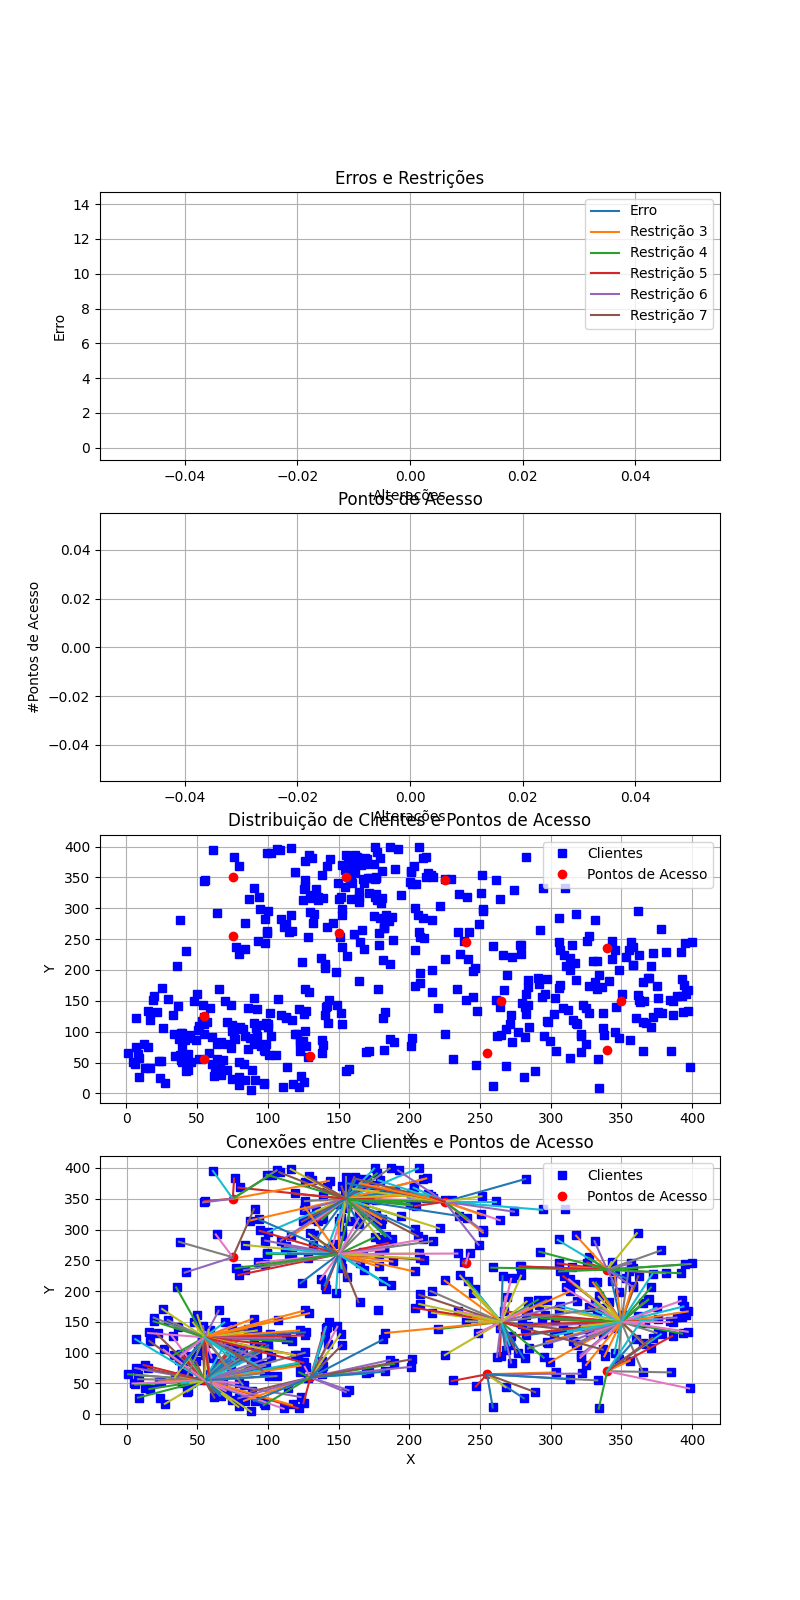
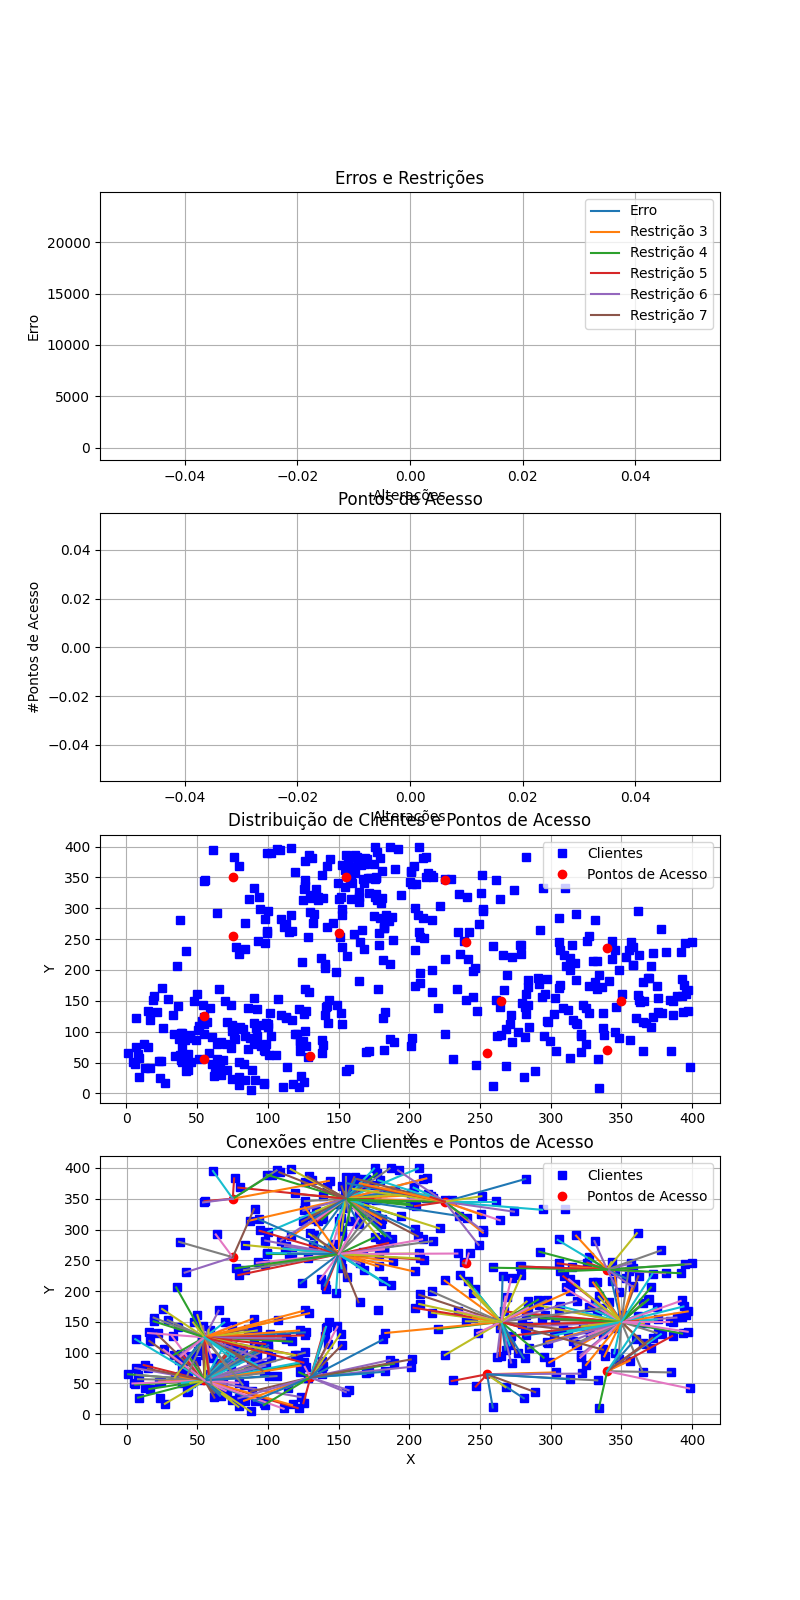
Rodando liso, só melhorar as estruturas de vizinhança que não estao boas

Changed region(s): [[0.0312, 0.125, 0.125, 0.2188]]

diff --git a/entregas/2 entrega/mop_solution/estrutura_vizinhanca.py b/entregas/2 entrega/mop_solution/estrutura_vizinhanca.py
@@ -41,7 +41,6 @@ def k1(dados):
 
     dados = realoca_clientes(dados, clientes_desalocados)
 
-    print(f"{r3(dados)} | {r4(dados)} |{r5(dados)} |{r6(dados)} |{r7(dados, 1)} |{r8(dados)} ")
     return dados
 
 
@@ -60,7 +59,7 @@ def k2(dados):
     """
 
     # Define o tamanho da região
-    tamanho_regiao = 50
+    tamanho_regiao = 100
 
     # Encontra as coordenadas da região aleatória
     x_inicio = np.random.randint(0, dados['sizex'][1] - tamanho_regiao + 1)
@@ -82,40 +81,20 @@ def k2(dados):
         clientes_ativos_por_PA = clientes_por_PA_na_regiao.sum(axis=0)
         PA_menos_clientes = np.argmin(clientes_ativos_por_PA)
 
+        # Obtém os clientes do PA desativado
+        clientes_desalocados = np.where(dados['cliente_por_PA'][:, PA_menos_clientes] == 1)[0]
+
         # Desativa o PA com menos clientes
         PAs_ativos = np.delete(PAs_ativos, PA_menos_clientes, axis=0)
         dados['possiveis_coord_PA'] = PAs_ativos
         dados['cliente_por_PA'] = np.delete(dados['cliente_por_PA'], PA_menos_clientes, axis=1)
+
         #Adiciona coluna de zeros no fim do array
         coluna_zeros = np.zeros((dados['cliente_por_PA'].shape[0], 1))
         dados['cliente_por_PA'] = np.hstack((dados['cliente_por_PA'], coluna_zeros))
 
-        # Obtém os clientes do PA desativado
-        clientes_desalocados = np.where(dados['cliente_por_PA'][:, PA_menos_clientes] == 1)[0]
-
-        # Remove os clientes do PA
-        dados['cliente_por_PA'][:, PA_menos_clientes] = 0
-
         dados = realoca_clientes(dados, clientes_desalocados)
-        # Tenta realocar os clientes desalocados
-        # for cliente in clientes_desalocados:
-        #     # Remove a conexão do cliente com o PA desativado
-        #     dados['cliente_por_PA'][cliente, PA_menos_clientes] = 0
-        #     # Calcula distâncias apenas para PAs ativos
-        #     distancias = np.linalg.norm(dados['coord_clientes'][cliente] - dados['possiveis_coord_PA'], axis=1)
 
-        #     # Encontra PAs ativos dentro do limite de sinal
-        #     PAs_ativos_alcance = PAs_ativos[np.where(distancias <= dados['limite_sinal_PA'])[0]]
-
-        #     # Tenta conectar ao PA com capacidade disponível
-        #     for i in range(len(PAs_ativos_alcance)):
-        #         PA = PAs_ativos_alcance[i]
-        #         consumo_atual_pa = np.sum(dados['cliente_por_PA'][:, i] * dados['cons_clientes'])
-        #         if consumo_atual_pa + dados['cons_clientes'][cliente] <= dados['capacidade_PA']:
-        #             dados['cliente_por_PA'][cliente, i] = 1
-        #             break  # Conectou o cliente, passa para o próximo
-
-    print(f"{r3(dados)} | {r4(dados)} |{r5(dados)} |{r6(dados)} |{r7(dados, 1)} |{r8(dados)} ")
     return dados
 
 def k3(dados):
@@ -153,30 +132,7 @@ def k3(dados):
     dados['dist_cliente_PA'] = calcular_distancias_cliente_PA(
         dados['possiveis_coord_PA'], dados['cliente_por_PA']
     )
-    return dados
 
-def realoca_clientes(dados, clientes):
-    dist_ord_clientes = calcular_dist_ord_cliente_PAs(dados['possiveis_coord_PA'])
-    cliente_por_PA = dados['cliente_por_PA']
-    for i, cliente in enumerate(clientes):
-        # Limpa cliente que será realocado
-        cliente_por_PA[i] = np.zeros(dados['n_max_PAs'])
-        consumo_PAs = np.zeros(len(dados['possiveis_coord_PA']))
-
-        # Tenta conectar ao PA mais próximo com capacidade disponível
-        for PA in dist_ord_clientes[i]:
-            idx_PA = int(PA[2])
-            if client_is_able_to_connect(dados, i, cliente, PA[:2], consumo_PAs[idx_PA]):
-                cliente_por_PA[i][idx_PA] = 1
-                consumo_PAs[idx_PA] += dados['cons_clientes'][i]
-            break
-    
-    somas = np.sum(cliente_por_PA, axis=1)
-    # Verifique se todas as somas são iguais a 1
-    todas_iguais_a_um = np.all(somas == 1)
-    if (todas_iguais_a_um):
-        print("Nao tem cliente em dois PAs")
-    dados['cliente_por_PA'] = cliente_por_PA
     return dados
 
 def k4(dados):
@@ -208,27 +164,40 @@ def k4(dados):
 
         nova_posicao = (new_x, new_y)
         PAs_alocados = np.vstack((PAs_alocados, nova_posicao))
-
-        # Redistribui os clientes, priorizando a redução de distância
         new_cliente_por_PA = np.zeros((num_clientes, n_max_PAs)) #Nova matriz de numero de clientes
-        PAs_ordenados = calcular_dist_ord_cliente_PAs(PAs_alocados)
-        # Passo 2: Acessar as coordenadas ordenadas dos PAs
-        consumo_PAs = np.zeros(len(PAs_alocados))
-
-
-        for i, coord in enumerate(coord_clientes):
-            for idx, pa in enumerate(PAs_ordenados[i]):
-                pa_idx = int(PAs_ordenados[i][idx][2])
-                if client_is_able_to_connect(dados, i, coord, pa[:2], consumo_PAs[pa_idx]):
-                    new_cliente_por_PA[i, pa_idx] = 1 
-                    consumo_PAs[pa_idx] += dados['cons_clientes'][i]
-                    break
-
         dados["cliente_por_PA"] = new_cliente_por_PA
         dados["possiveis_coord_PA"] = PAs_alocados
 
+        # Redistribui todos os clientes, priorizando a redução de distância
+        clientes_para_alocar = array = np.arange(495)
+        dados = realoca_clientes(dados, clientes_para_alocar)
 
     return dados
+
+
+def realoca_clientes(dados, clientes):
+    dist_ord_clientes = calcular_dist_ord_cliente_PAs(dados['possiveis_coord_PA'])
+    cliente_por_PA = dados['cliente_por_PA']
+    for i, cliente in enumerate(clientes):
+        # Limpa cliente que será realocado
+        cliente_por_PA[i] = np.zeros(dados['n_max_PAs'])
+        consumo_PAs = np.zeros(len(dados['possiveis_coord_PA']))
+
+        # Tenta conectar ao PA mais próximo com capacidade disponível
+        for PA in dist_ord_clientes[i]:
+            idx_PA = int(PA[2])
+            if client_is_able_to_connect(dados, i, cliente, PA[:2], consumo_PAs[idx_PA]):
+                cliente_por_PA[i][idx_PA] = 1
+                consumo_PAs[idx_PA] += dados['cons_clientes'][i]
+            break
+    somas = np.sum(cliente_por_PA, axis=1)
+    # Verifique se todas as somas são iguais a 1
+    todas_iguais_a_um = np.all((somas == 0.0) | (somas == 1.0))
+    if (not todas_iguais_a_um):
+        print("Tem cliente em dois PAs")
+    dados['cliente_por_PA'] = cliente_por_PA
+    return dados
+
 
 def calcular_dist_ord_cliente_PAs(coord_PAs):
     dist_matrix = np.load('dist_matrix.npy')

diff --git a/entregas/2 entrega/mop_solution/basicvns.py b/entregas/2 entrega/mop_solution/basicvns.py
@@ -28,13 +28,12 @@ def basic_VNS(dados, f, k_max, max_int, plot, n_plot):
     y = f(dados)
 
     while(nfe < max_int):
-        print(f"{nfe}a interacao")
+        print(f"{nfe+1}a interacao")
         print('f(x) inicial: {:.4f}'.format(y))
         k = 1
         while(k<=k_max):
             print('f(x): {:.4f} | k = {}'.format(y,k))
             dados_ = shake(copy.deepcopy(dados),k) # Solução na kesima vizinhança
-            print(len(dados_['possiveis_coord_PA']))
             dados__ = best_change(copy.deepcopy(dados_), f)
             dados, k = neigh_change(copy.deepcopy(dados), copy.deepcopy(dados__), k, f) # atualiza x
             y = f(dados)
@@ -123,7 +122,6 @@ def best_change(dados, f):
 
     # Avalia as funções objetivo
     f_values = [float(f(d)) for d in new_dados]
-    print(f_values)
 
     # Retorna os dados correspondentes à melhor função objetivo
     return new_dados[np.argmin(f_values)]
@@ -178,8 +176,6 @@ if __name__ == "__main__":
         for i in range(dim_x_matriz):
             for j in range(dim_y_matriz):
                 for k in range(num_clientes):
-                    if i == j and j == k and k == 0:
-                        print(np.linalg.norm(coord_clientes[k] - grid_coords[i][j]))
                     dist_matrix[i][j][k] = np.linalg.norm(coord_clientes[k] - grid_coords[i][j])
         # Escrever a matriz em um arquivo
         np.save('dist_matrix.npy', dist_matrix)
